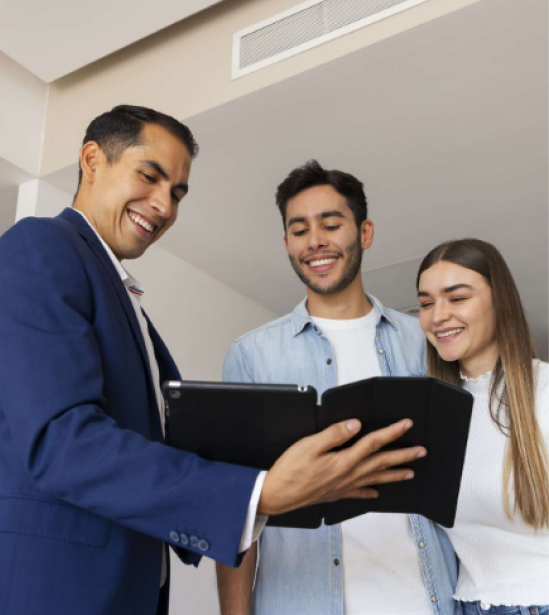
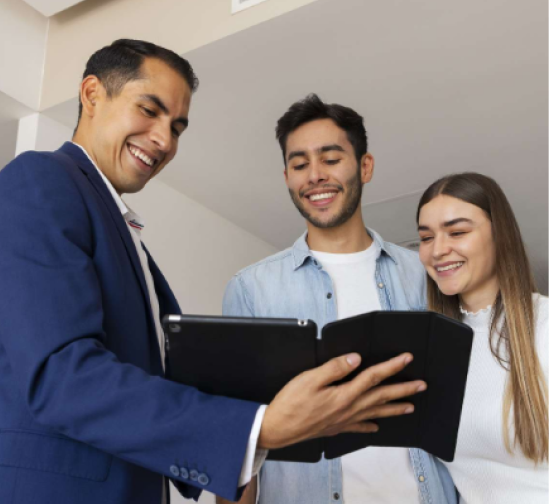
avance responsive

diff --git a/public/css/nuestros_seguros.css b/public/css/nuestros_seguros.css
@@ -23,8 +23,8 @@
 
 /* Ajusta la imagen dentro del contenedor */
 .seguro-img {
-    width: 90%; /* Ajusta el tamaño de la imagen */
-    height: 500px;
+    width: 100%; /* Ajusta el tamaño de la imagen */
+    height: auto;
     /*border-radius: 10px;*/
 }
 
@@ -106,12 +106,27 @@
     }
 
     .text-container h1 {
-        font-size: 1.8rem;
+        font-size: 35px;
     }
 
     .text-container p {
         font-size: 1rem;
     }
+
+    .image-container {
+        text-align: center;
+    }
+    .seguro-img {
+        width: 80%;
+        height: auto;
+        /* border-radius: 10px; */
+    }
+
+    .text-container {
+        text-align: center;
+        padding: 10px 60px;
+    }
+
 }
 
 
@@ -158,7 +173,7 @@
 
 .riesgo-card img {
     max-width: 100%;
-    height: 276px;
+    height: auto;
     /*border-radius: 10px;*/
     margin-bottom: 15px;
 }
@@ -194,7 +209,11 @@
 /* Responsividad para pantallas pequeñas */
 @media (max-width: 768px) {
     .riesgo-card {
-        width: 100%; /* Las tarjetas ocupan el 100% en pantallas pequeñas */
+        width: 70%; /* Las tarjetas ocupan el 100% en pantallas pequeñas */
+        height: 505px;
+    }
+    .riesgo-card h2 {
+        font-size: 28px;
     }
 }
 

diff --git a/public/css/aliados.css b/public/css/aliados.css
@@ -70,6 +70,25 @@
 /* Responsivo para dispositivos móviles */
 @media (max-width: 768px) {
     .carousel img {
-        max-height: 80px;
+        max-height: 35px;
     }
+
+    .aliados-section > h2 {
+        font-size: 30px;
+    }
+
+    .image-group {
+        gap: 0px;
+    }
+
+    .carousel-btn.prev {
+        left: 20px;
+    }
+    .carousel-btn.next {
+        right: 20px;
+    }
+    .carousel-btn {
+        top: 78%;
+    }
+
 }

diff --git a/public/css/quienes_somos.css b/public/css/quienes_somos.css
@@ -127,6 +127,12 @@
     .historia-section .text-container-h p {
         font-size: 1rem;
     }
+
+    .text-container {
+        padding: 20px 90px;    
+    }
+
+    
     
 }
 
@@ -276,6 +282,12 @@
     .block-gerente > img {
         width: 170px;
         height: 170px;
+    }
+
+
+    .historia-section {
+        margin: 0px auto;
+        padding: 0px;
     }
 }
 

diff --git a/public/css/home.css b/public/css/home.css
@@ -153,15 +153,16 @@
 }
 .Seccion3 > h2{
     text-align: center;
-    color: #80BB4A;
+    color: #3A519E;
     font-size: 45px;
-
     TEXT-DECORATION: UNDERLINE;
     TEXT-UNDERLINE-OFFSET: 20PX;
     TEXT-DECORATION-COLOR: #38509D;
+
+    margin-bottom: 28px;
 }
 .Seccion3 > h2 > strong{
-    color: #3A519E;
+    color: #80BB4A;
 }
 
 .Seccion3 > div{

diff --git a/templates/aliados.php b/templates/aliados.php
@@ -16,7 +16,7 @@
             <!-- Grupo 1 (visible al inicio) -->
             <div class="image-group">
                 <img src="../public/img/positiva.png" alt="La Positiva">
-                <img src="../public/img/mapfre.png" alt="MAPFRE">
+                <img src="../public/img/mapfre.jpg" alt="MAPFRE">
                 <img src="../public/img/chubb.png" alt="Chubb">
                 <img src="../public/img/qualitas.png" alt="Qualitas">
             </div>

diff --git a/index.php b/index.php
@@ -94,7 +94,7 @@
             <!-- Grupo 1 (visible al inicio) -->
             <div class="image-group">
                 <img src="./public/img/positiva.png" alt="La Positiva">
-                <img src="./public/img/mapfre.png" alt="MAPFRE">
+                <img src="./public/img/mapfre.jpg" alt="MAPFRE">
                 <img src="./public/img/chubb.png" alt="Chubb">
                 <img src="./public/img/qualitas.png" alt="Qualitas">
             </div>
